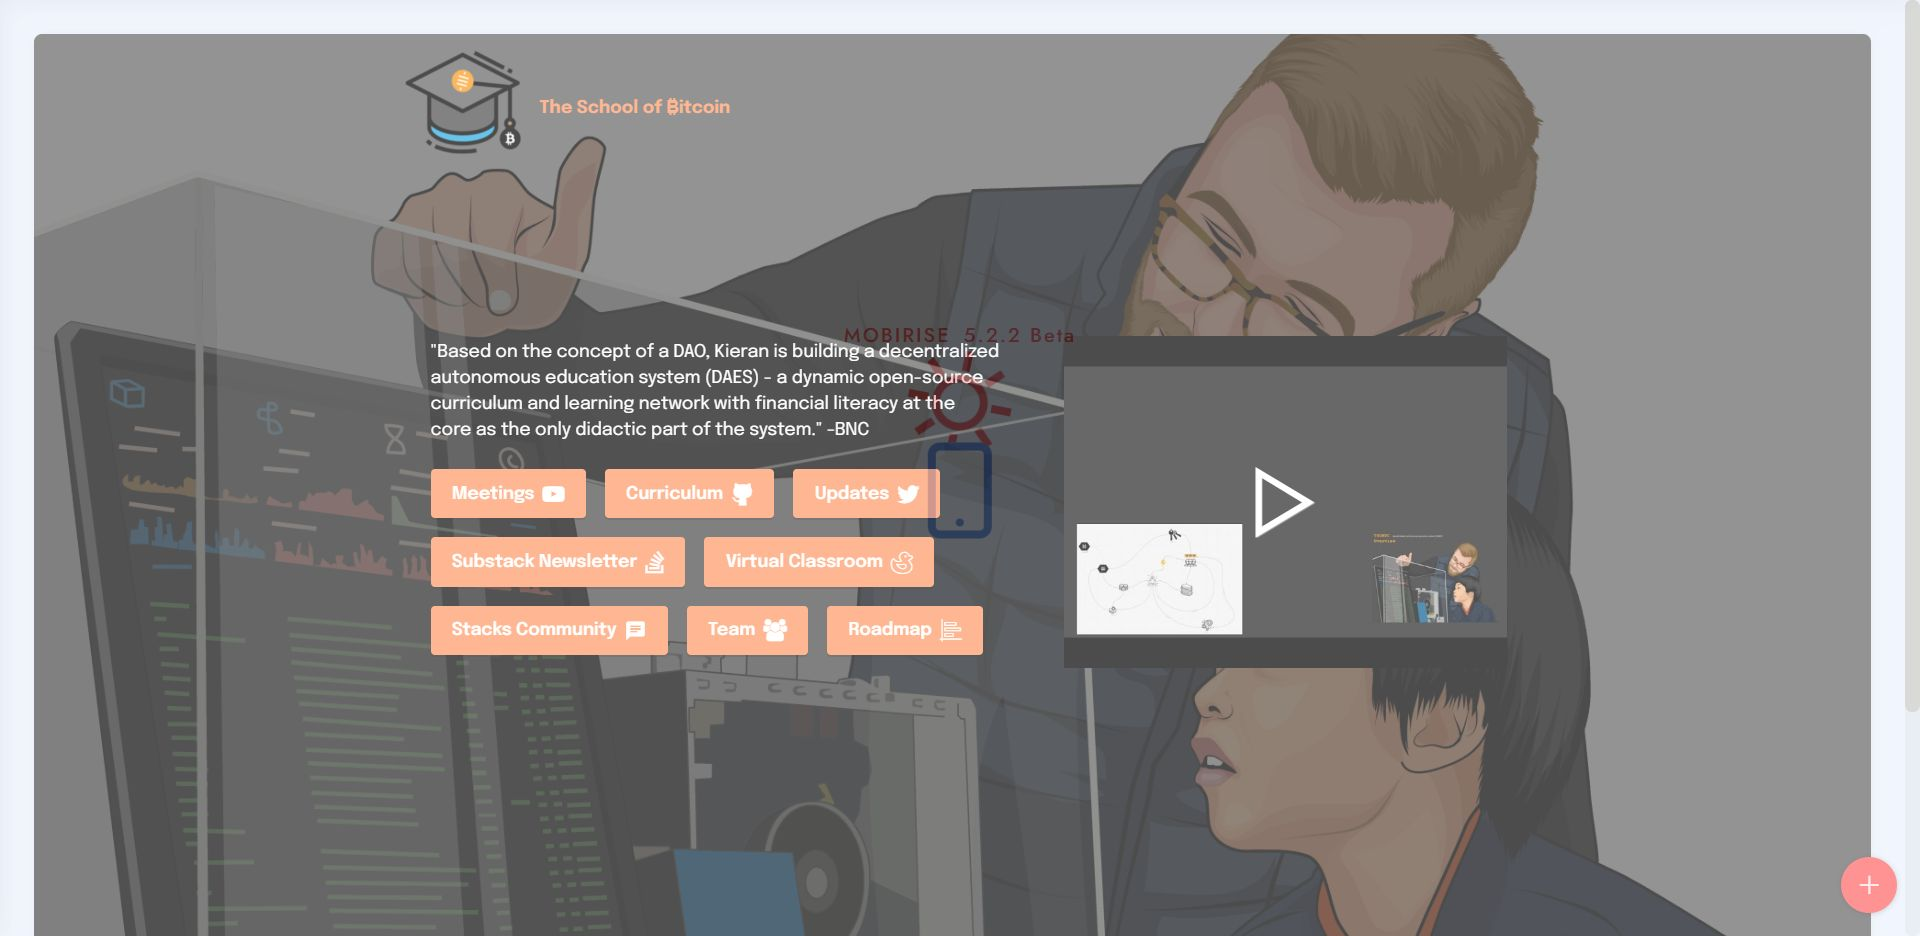
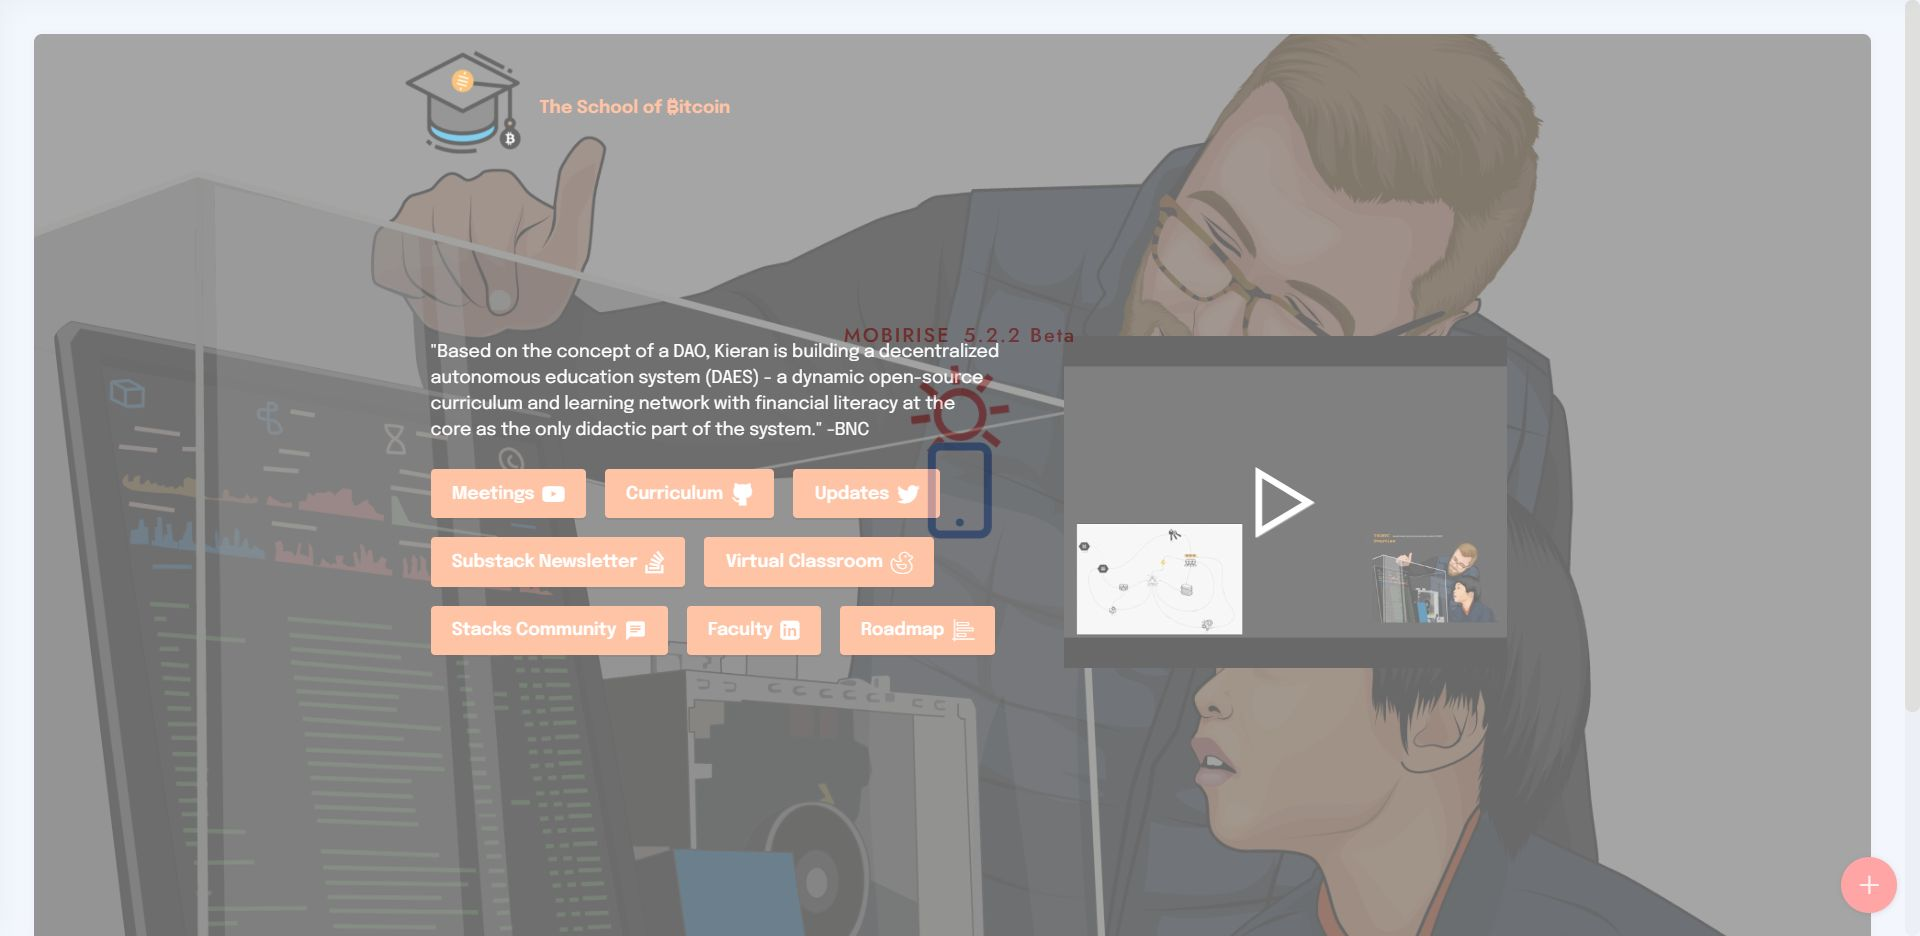
updates
updates

diff --git a/page1.html b/page1.html
@@ -40,8 +40,8 @@
         </div>
         <div class="row mbr-gallery mt-4">
             <div class="col-12 col-md-6 col-lg-3 item gallery-image">
-                <div class="item-wrapper" data-toggle="modal" data-target="#sY6TRaYUOq-modal">
-                    <img class="w-100" src="assets/images/features1.jpg" alt="" data-slide-to="0" data-target="#lb-sY6TRaYUOq">
+                <div class="item-wrapper" data-toggle="modal" data-target="#sYdBJUFymh-modal">
+                    <img class="w-100" src="assets/images/features1.jpg" alt="" data-slide-to="0" data-target="#lb-sYdBJUFymh">
                     <div class="icon-wrapper">
                         <span class="mobi-mbri mobi-mbri-search mbr-iconfont mbr-iconfont-btn"></span>
                     </div>
@@ -49,8 +49,8 @@
                 
             </div>
             <div class="col-12 col-md-6 col-lg-3 item gallery-image">
-                <div class="item-wrapper" data-toggle="modal" data-target="#sY6TRaYUOq-modal">
-                    <img class="w-100" src="assets/images/features2.jpg" alt="" data-slide-to="1" data-target="#lb-sY6TRaYUOq">
+                <div class="item-wrapper" data-toggle="modal" data-target="#sYdBJUFymh-modal">
+                    <img class="w-100" src="assets/images/features2.jpg" alt="" data-slide-to="1" data-target="#lb-sYdBJUFymh">
                     <div class="icon-wrapper">
                         <span class="mobi-mbri mobi-mbri-search mbr-iconfont mbr-iconfont-btn"></span>
                     </div>
@@ -58,8 +58,8 @@
                 
             </div>
             <div class="col-12 col-md-6 col-lg-3 item gallery-image">
-                <div class="item-wrapper" data-toggle="modal" data-target="#sY6TRaYUOq-modal">
-                    <img class="w-100" src="assets/images/features3.jpg" alt="" data-slide-to="2" data-target="#lb-sY6TRaYUOq">
+                <div class="item-wrapper" data-toggle="modal" data-target="#sYdBJUFymh-modal">
+                    <img class="w-100" src="assets/images/features3.jpg" alt="" data-slide-to="2" data-target="#lb-sYdBJUFymh">
                     <div class="icon-wrapper">
                         <span class="mobi-mbri mobi-mbri-search mbr-iconfont mbr-iconfont-btn"></span>
                     </div>
@@ -67,8 +67,8 @@
                 
             </div>
             <div class="col-12 col-md-6 col-lg-3 item gallery-image">
-                <div class="item-wrapper" data-toggle="modal" data-target="#sY6TRaYUOq-modal">
-                    <img class="w-100" src="assets/images/features4.jpg" alt="" data-slide-to="3" data-target="#lb-sY6TRaYUOq">
+                <div class="item-wrapper" data-toggle="modal" data-target="#sYdBJUFymh-modal">
+                    <img class="w-100" src="assets/images/features4.jpg" alt="" data-slide-to="3" data-target="#lb-sYdBJUFymh">
                     <div class="icon-wrapper">
                         <span class="mobi-mbri mobi-mbri-search mbr-iconfont mbr-iconfont-btn"></span>
                     </div>
@@ -77,11 +77,11 @@
             </div>
         </div>
 
-        <div class="modal mbr-slider" tabindex="-1" role="dialog" aria-hidden="true" id="sY6TRaYUOq-modal">
+        <div class="modal mbr-slider" tabindex="-1" role="dialog" aria-hidden="true" id="sYdBJUFymh-modal">
             <div class="modal-dialog" role="document">
                 <div class="modal-content">
                     <div class="modal-body">
-                        <div class="carousel slide" id="lb-sY6TRaYUOq" data-interval="5000">
+                        <div class="carousel slide" id="lb-sYdBJUFymh" data-interval="5000">
                             <div class="carousel-inner">
                                 <div class="carousel-item active">
                                     <img class="d-block w-100" src="assets/images/features1.jpg" alt="">
@@ -97,18 +97,18 @@
                                 </div>
                             </div>
                             <ol class="carousel-indicators">
-                                <li data-slide-to="0" class="active" data-target="#lb-sY6TRaYUOq"></li>
-                                <li data-slide-to="1" data-target="#lb-sY6TRaYUOq"></li>
-                                <li data-slide-to="2" data-target="#lb-sY6TRaYUOq"></li>
-                                <li data-slide-to="3" data-target="#lb-sY6TRaYUOq"></li>
+                                <li data-slide-to="0" class="active" data-target="#lb-sYdBJUFymh"></li>
+                                <li data-slide-to="1" data-target="#lb-sYdBJUFymh"></li>
+                                <li data-slide-to="2" data-target="#lb-sYdBJUFymh"></li>
+                                <li data-slide-to="3" data-target="#lb-sYdBJUFymh"></li>
                             </ol>
                             <a role="button" href="" class="close" data-dismiss="modal" aria-label="Close">
                             </a>
-                            <a class="carousel-control-prev carousel-control" role="button" data-slide="prev" href="#lb-sY6TRaYUOq">
+                            <a class="carousel-control-prev carousel-control" role="button" data-slide="prev" href="#lb-sYdBJUFymh">
                                 <span class="mobi-mbri mobi-mbri-arrow-prev" aria-hidden="true"></span>
                                 <span class="sr-only">Previous</span>
                             </a>
-                            <a class="carousel-control-next carousel-control" role="button" data-slide="next" href="#lb-sY6TRaYUOq">
+                            <a class="carousel-control-next carousel-control" role="button" data-slide="next" href="#lb-sYdBJUFymh">
                                 <span class="mobi-mbri mobi-mbri-arrow-next" aria-hidden="true"></span>
                                 <span class="sr-only">Next</span>
                             </a>

diff --git a/index.html b/index.html
@@ -16,7 +16,6 @@
   <link rel="stylesheet" href="assets/icon54-v2/style.css">
   <link rel="stylesheet" href="assets/icon54-v3/style.css">
   <link rel="stylesheet" href="assets/icons-mind/style.css">
-  <link rel="stylesheet" href="assets/bootstrap-material-design-font/css/material.css">
   <link rel="stylesheet" href="assets/icon54/style.css">
   <link rel="stylesheet" href="assets/web/assets/mobirise-icons/mobirise-icons.css">
   <link rel="stylesheet" href="assets/tether/tether.min.css">
@@ -68,7 +67,7 @@
                 <div class="text-wrapper">
                     
                     <p class="mbr-text mb-3 mbr-fonts-style display-7"><a href="https://bravenewcoin.com/insights/podcasts/the-school-of-bitcoin-teaching-the-next-generation" class="text-primary" target="_blank">"Based on the concept of a DAO, Kieran is building a decentralized autonomous education system (DAES) - a dynamic open-source curriculum and learning network with financial literacy at the core as the only didactic part of the system." -BNC</a></p>
-                    <div class="mbr-section-btn"><a class="btn btn-danger display-7" href="https://www.youtube.com/playlist?list=PLwn9KgpxsZSRvMj6vHHAZbXVXOzX-sH6j" target="_blank"><span class="fa fa-youtube-play mbr-iconfont mbr-iconfont-btn"></span>Meetings</a> <a class="btn btn-danger display-7" href="https://github.com/TheSchoolofBitcoin/curriculumDAO_CD" target="_blank"><span class="socicon socicon-github mbr-iconfont mbr-iconfont-btn"></span>Curriculum</a> <a class="btn btn-danger display-7" href="https://twitter.com/theschoolofbtc" target="_blank"><span class="socicon socicon-twitter mbr-iconfont mbr-iconfont-btn"></span>Updates</a> <a class="btn btn-danger display-7" href="https://theschoolofbitcoin.substack.com/" target="_blank"><span class="fa fa-stack-overflow mbr-iconfont mbr-iconfont-btn"></span>Substack Newsletter</a> <a class="btn btn-danger display-7" href="https://hubs.mozilla.com/CmZSgSr/theschoolofbitcoin/" target="_blank"><span class="icon54-v3-rubber-duck mbr-iconfont mbr-iconfont-btn"></span>Virtual Classroom</a> <a class="btn btn-danger display-7" href="https://getsession.org/download" target="_blank"><span class="mdi-communication-chat mbr-iconfont mbr-iconfont-btn"></span>Stacks Community</a> <a class="btn btn-danger display-7" href="https://www.linkedin.com/company/78805921/admin/" target="_blank"><span class="fa fa-linkedin-square mbr-iconfont mbr-iconfont-btn"></span>Faculty</a> <a class="btn btn-danger display-7" href="https://docs.google.com/spreadsheets/d/1QRZyqstvRpnwNJI55GrFG3QrmXLp3uOyVWhQs21ZDeI/edit?usp=sharing" target="_blank"><span class="icon54-v1-landscape-chart mbr-iconfont mbr-iconfont-btn"></span>Roadmap</a></div>
+                    <div class="mbr-section-btn"><a class="btn btn-danger display-7" href="https://www.youtube.com/playlist?list=PLwn9KgpxsZSRvMj6vHHAZbXVXOzX-sH6j" target="_blank"><span class="fa fa-youtube-play mbr-iconfont mbr-iconfont-btn"></span>Meetings</a> <a class="btn btn-danger display-7" href="https://github.com/TheSchoolofBitcoin/curriculumDAO_CD" target="_blank"><span class="socicon socicon-github mbr-iconfont mbr-iconfont-btn"></span>Curriculum</a> <a class="btn btn-danger display-7" href="https://twitter.com/theschoolofbtc" target="_blank"><span class="socicon socicon-twitter mbr-iconfont mbr-iconfont-btn"></span>Updates</a> <a class="btn btn-danger display-7" href="https://theschoolofbitcoin.substack.com/" target="_blank"><span class="fa fa-stack-overflow mbr-iconfont mbr-iconfont-btn"></span>Substack Newsletter</a> <a class="btn btn-danger display-7" href="https://hubs.mozilla.com/CmZSgSr/theschoolofbitcoin/" target="_blank"><span class="icon54-v3-rubber-duck mbr-iconfont mbr-iconfont-btn"></span>Virtual Classroom</a>  <a class="btn btn-danger display-7" href="https://www.linkedin.com/company/78805921/admin/" target="_blank"><span class="fa fa-linkedin-square mbr-iconfont mbr-iconfont-btn"></span>Faculty</a> <a class="btn btn-danger display-7" href="https://docs.google.com/spreadsheets/d/1QRZyqstvRpnwNJI55GrFG3QrmXLp3uOyVWhQs21ZDeI/edit?usp=sharing" target="_blank"><span class="icon54-v1-landscape-chart mbr-iconfont mbr-iconfont-btn"></span>Roadmap</a> <a class="btn btn-danger display-7" href="https://miro.com/app/board/uXjVOLl4TIQ=/?invite_link_id=314642427961" target="_blank"><span class="icon54-v1-diagram-3 mbr-iconfont mbr-iconfont-btn"></span>DAES Diagram</a></div>
                 </div>
             </div>
             <div class="mbr-figure col-12 col-md-5"><iframe class="mbr-embedded-video" src="https://www.youtube.com/embed/hNxNwY8R9SE?rel=0&amp;amp;showinfo=0&amp;autoplay=0&amp;loop=0" width="1280" height="720" frameborder="0" allowfullscreen></iframe></div>
